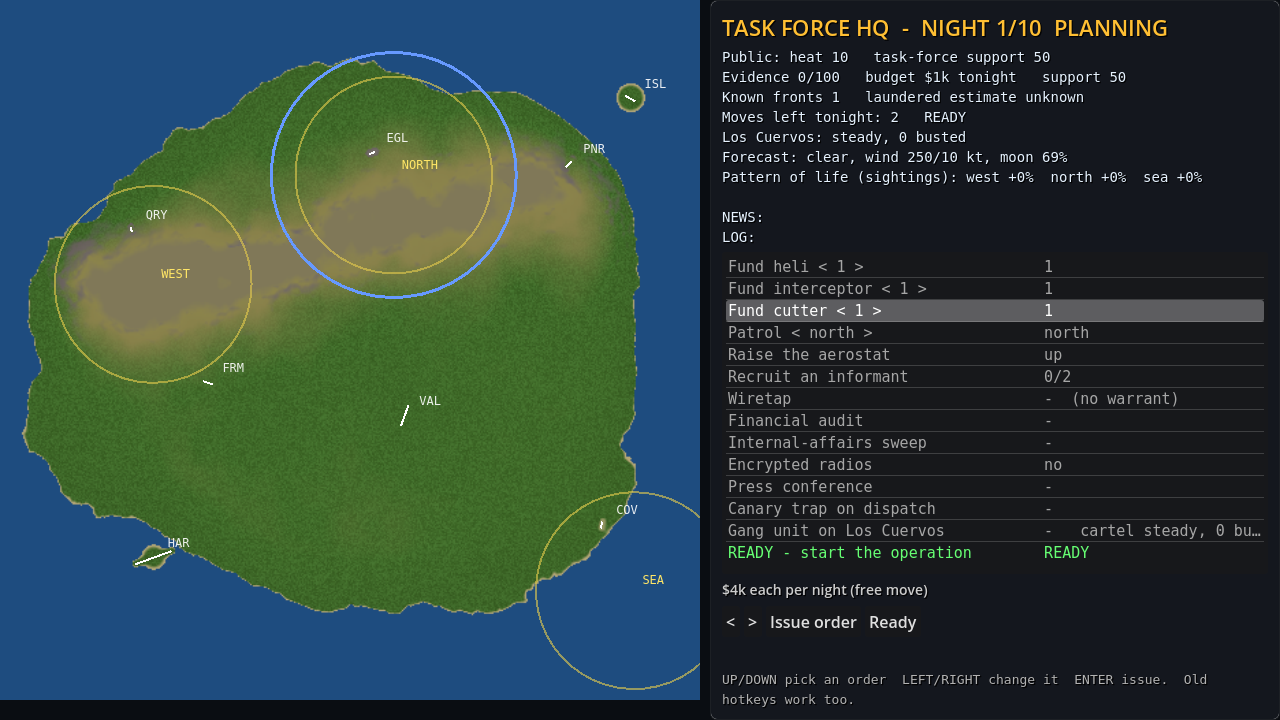
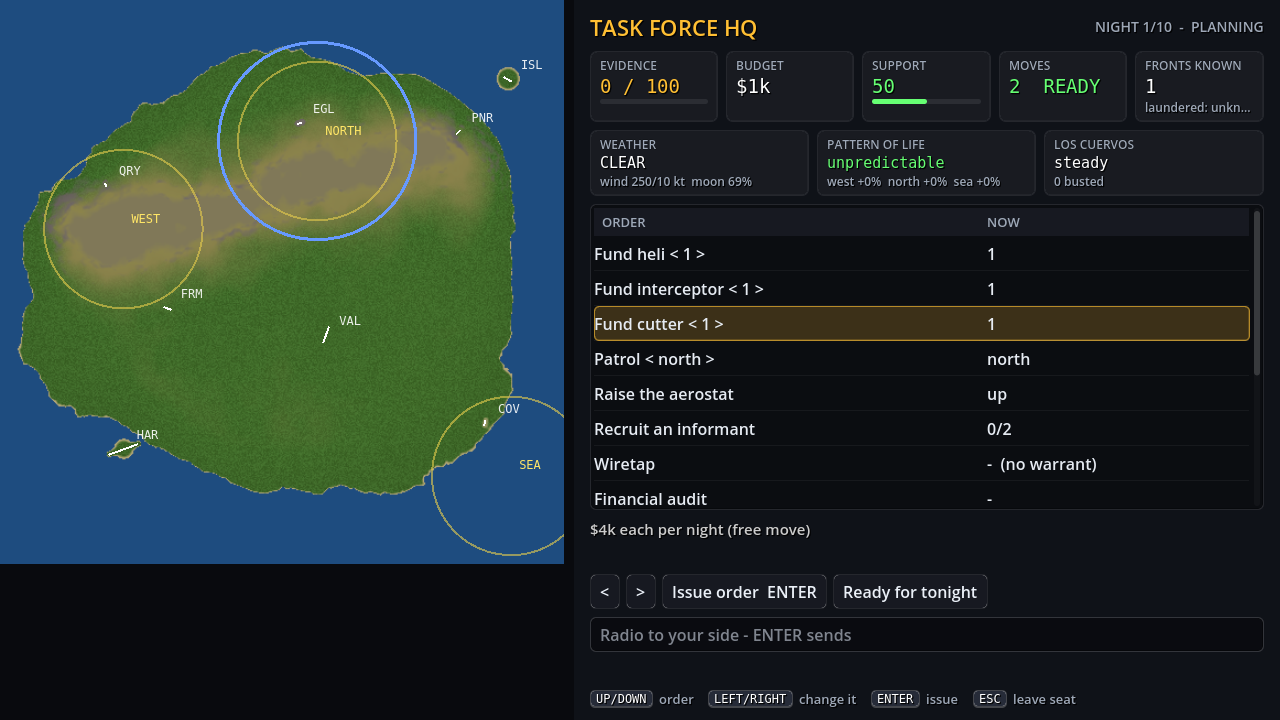
Report: surge findings, unit-returns check, co-pilot section; UI screenshots
- report.gd: entry 14 now records the surge and why a second chaser adds
  nothing for the bots; section 2 compares flown vs modelled returns on extra
  units; section 6 reads the crew simulator
- calibration stays the standard-posture fit (the two-posture fit is kept
  as Tactical.unit_returns, a diagnostic)
- station map centred in its pane; load planner chart shrinks to fit
- screenshots: every UI screen re-rendered, plus co-pilot desk, HUD, lobby
- README: redesigned UI, the surge, the crew simulator

Claude-Session: https://claude.ai/code/session_015gWc7K2PCQMPbBXePYB8M7

diff --git a/README.md b/README.md
@@ -45,10 +45,18 @@ New in the Godot build:
     arrested, so a leak is never ground truth.
   - *Rival tempers.* Los Cuervos are tit-for-tat, grudge-holders or opportunists, and you learn which
     from how they behave. Truces unravel as the season runs out (backward induction).
-  - *Stake-outs.* Spare police helicopters don't chase: they cover the strip your track points at.
+  - *The surge.* Every spare police helicopter joins the chase as a flanker, aiming ahead to cut you
+    off, and two aircraft on your tail box you in (the bust meter fills 50% faster).
   - *Nerves.* Stress follows what real smuggling pilots feared. Past the Yerkes-Dodson hump the screen
     tunnels, you hear your heartbeat and your hands shake (8-12 Hz, human hands only). A co-pilot
     steadies you.
+- **One UI, redesigned.** A single theme across every screen; real tables with titled columns (the job
+  board colours the landing roll against the strip length); key caps in every footer that you can
+  also click; readouts as tiles; a HUD laid out by what you need when (status chips, wanted stars,
+  flight tiles, job cards, fading radio toasts, and a crew strip saying what the co-pilot is doing).
+  The co-pilot's desk opens on a Flight tab of crew jobs with live tiles, has a chat line to the pilot,
+  and hires a spotter wherever you click a strip. ESC asks before leaving a seat. The UI scales with
+  the window (tested 1024x768 to 2560x1080).
 - **Graphics overhaul:**
   - chunked, LOD'd terrain with a biome splat shader (sand, grass, forest floor, dry grass, rock
     triplanar on steep faces, normal-mapped); a depth-aware sea with shoreline foam; a procedural sky
@@ -73,6 +81,8 @@ New in the Godot build:
 | ![foot](docs/img/on-foot-hangar.png) | ![villa](docs/img/villa-desk.png) | ![org](docs/img/hq-org.png) |
 | **A storm night** | **Full moon** | **Generated island #7** |
 | ![storm](docs/img/storm.png) | ![moon](docs/img/full-moon.png) | ![map7](docs/img/map-seed7.png) |
+| **The HUD, crewed airdrop** | **Co-pilot's desk** | **Lobby** |
+| ![hud](docs/img/ui-hud.png) | ![copilot](docs/img/ui-copilot.png) | ![lobby](docs/img/ui-lobby.png) |
 
 *(Rendered on a GPU-less box: Mesa llvmpipe with Godot's compatibility renderer under Xvfb. SSAO and
 volumetric fog need Forward+ on a real GPU.)*
@@ -122,6 +132,7 @@ Demo videos: [docs/video/](docs/video/) (`tools/tour.gd` records the on-foot and
 ```bash
 $GODOT --headless --path . --script res://scripts/balance/cli.gd -- all --workers 4   # feasibility, tactical, strategic, report
 $GODOT --headless --path . --script res://scripts/balance/cli.gd -- strategic --n 1000
+$GODOT --headless --path . --script res://scripts/balance/cli.gd -- crew --seeds 10     # solo vs AI vs human co-pilot
 $GODOT --headless --path . --script res://scripts/balance/cli.gd -- tune --n 100 --grid '{"rival_market": [0.3, 0.4]}'
 $GODOT --headless --path . --script res://tools/equilibrium.gd -- 500 '{"weather": false}'   # one rule set's equilibrium
 ```
